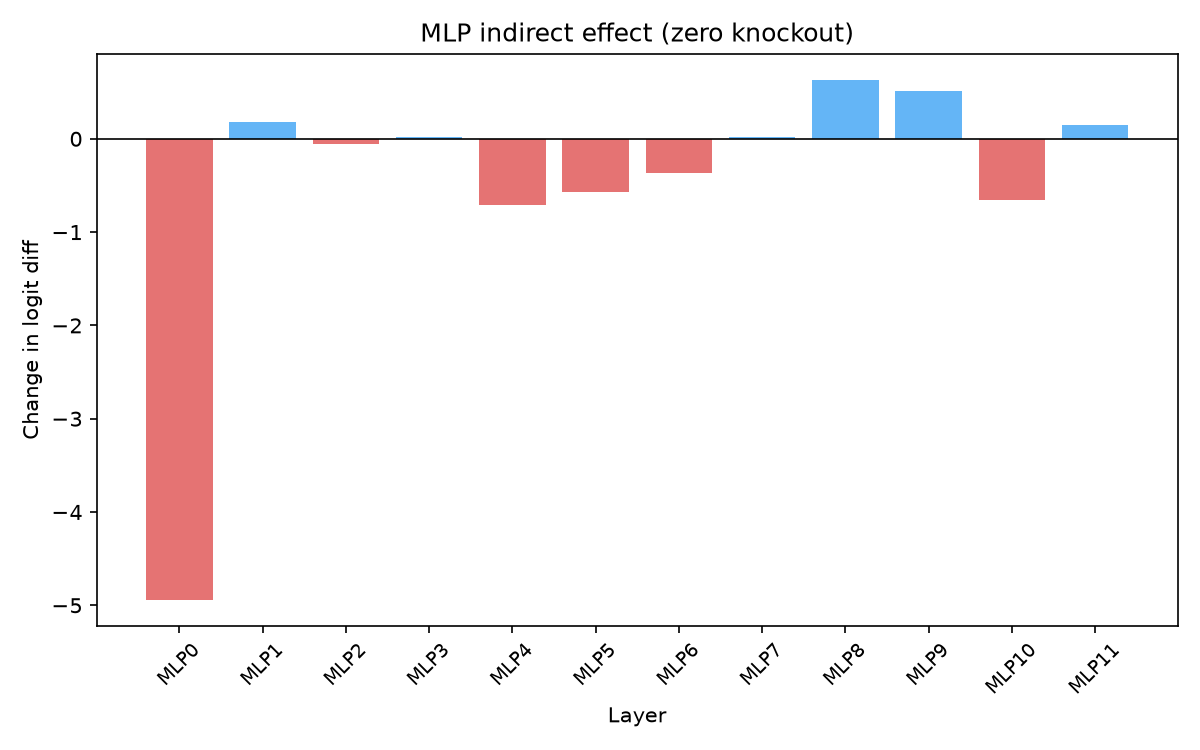
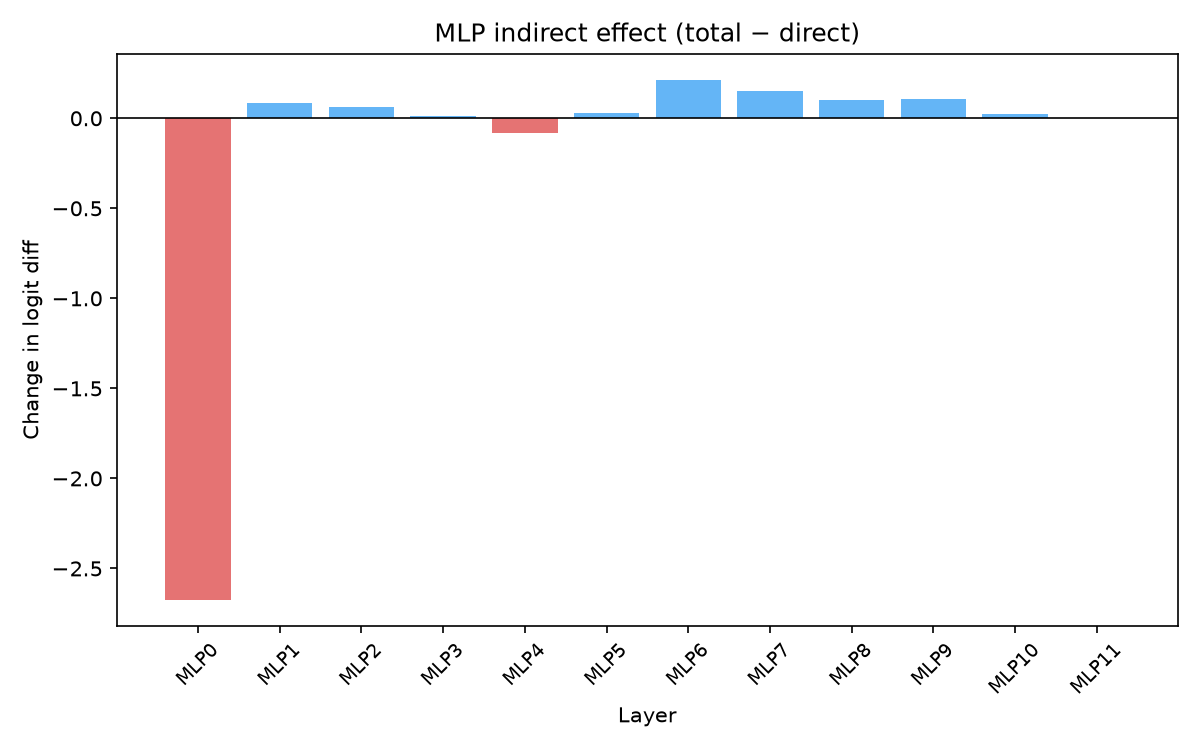
fix(ioi): revert sender position restriction; regen figs 12b, 13b, 19
The position restriction added in 303e187 was wrong — the paper's "at S2"
in Fig 12b titles refers to the receiver's key position, not the sender's
output position. All-positions patching is the paper's actual method, and
correctly shows DT head (0,1) as the dominant sender to SI keys.

AppC (Fig 12b): DT head (0,1) now clearly dominant (all-positions)
AppD (Fig 13b): effects at 1e-5 scale — IH key path is genuinely very
  indirect (4-hop chain); both approaches give the same result
AppJ (Fig 19): MLP0 indirect effect -2.68 >> direct -0.008 — matches
  paper's Appendix J (MLP0 sets up early residual; late MLPs are direct)

diff --git a/experiments/appD_ih_keys.py b/experiments/appD_ih_keys.py
@@ -49,7 +49,6 @@ def run():
         receiver_heads=IH_HEADS,
         receiver_input="k",
         metric=metric,
-        sender_positions=ioi.word_idx["S+1"].long(),
     )
 
     ih_min = min(l for l, _ in IH_HEADS)

diff --git a/experiments/appC_si_keys.py b/experiments/appC_si_keys.py
@@ -49,7 +49,6 @@ def run():
         receiver_heads=SI_HEADS,
         receiver_input="k",
         metric=metric,
-        sender_positions=ioi.word_idx["S2"].long(),
     )
 
     si_min = min(l for l, _ in SI_HEADS)
